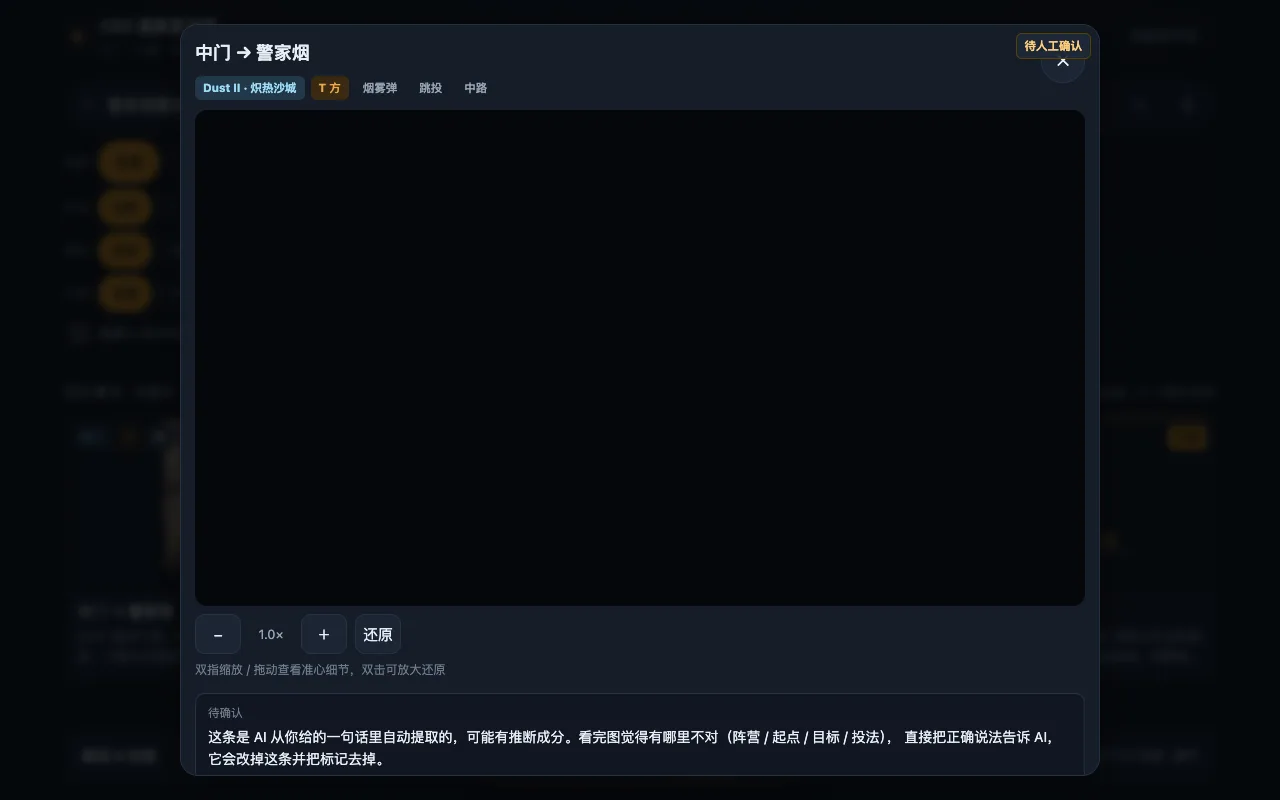
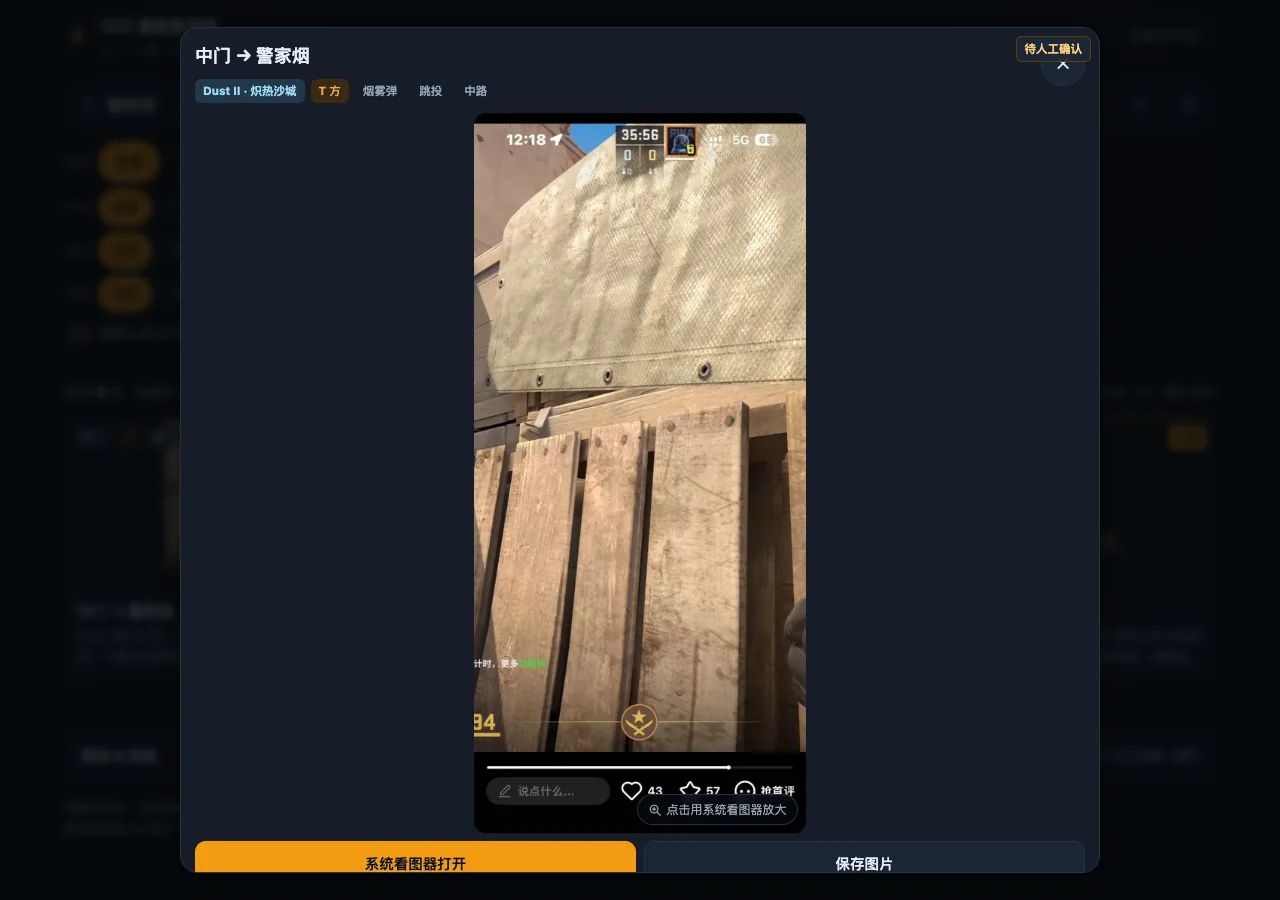
feat(detail): 点大图改用系统看图器，去掉自定义手势缩放
- 详情图不再做自定义双指/滚轮缩放（难用），点图或按钮直接在新标签打开原图，
  交给手机/电脑自带看图器（双指缩放、长按保存都是系统那套）
- 新增「系统看图器打开」「保存图片」两个大按钮；图右下角加操作提示
- 弹窗内图片本身给到更大（桌面 80vh / 手机 66vh），黑底贴合图片不留大片空白
- 允许系统长按菜单（-webkit-touch-callout: default）
- SW：导航到图片路径时不拦截，避免被回退成缓存的 index.html（看到首页而不是图）

diff --git a/src/components/LineupDetail.tsx b/src/components/LineupDetail.tsx
@@ -1,4 +1,4 @@
-import { useCallback, useEffect, useRef, useState } from 'react'
+import { useEffect } from 'react'
 import { assetUrl } from '../lib/assets'
 import type { Lineup } from '../data/types'
 import { GRENADE_SHORT, lineupTitle, ZONE_LABEL } from '../data/types'
@@ -10,126 +10,46 @@ interface Props {
 }
 
 /**
- * 准心大图：支持手机双指缩放 / 拖动 / 双击放大，桌面端支持滚轮与按钮缩放。
- * 缩放只作用在图片上，关闭按钮固定在右上角，永远好点。
+ * 准心图：不做自定义手势缩放（难用）。
+ * 点图片或按钮 → 用系统自带看图器打开原图，双指缩放、长按保存都交给系统/浏览器。
+ * 弹窗里这张图本身也尽量给大，多数情况不用放大就看得清。
  */
-function ZoomImage({ src, alt }: { src: string; alt: string }) {
-  const [scale, setScale] = useState(1)
-  const [offset, setOffset] = useState({ x: 0, y: 0 })
-  const boxRef = useRef<HTMLDivElement>(null)
-  const state = useRef({
-    pointers: new Map<number, { x: number; y: number }>(),
-    startDist: 0,
-    startScale: 1,
-    lastTap: 0,
-    startOffset: { x: 0, y: 0 },
-    startCenter: { x: 0, y: 0 },
-  })
-
-  const reset = useCallback(() => {
-    setScale(1)
-    setOffset({ x: 0, y: 0 })
-  }, [])
-
-  useEffect(() => {
-    reset()
-  }, [src, reset])
-
-  const clampScale = (s: number) => Math.min(6, Math.max(1, s))
-
-  const onPointerDown = (e: React.PointerEvent) => {
-    ;(e.target as HTMLElement).setPointerCapture?.(e.pointerId)
-    const st = state.current
-    st.pointers.set(e.pointerId, { x: e.clientX, y: e.clientY })
-
-    if (st.pointers.size === 1) {
-      const now = Date.now()
-      if (now - st.lastTap < 300) {
-        setScale((prev) => (prev > 1 ? 1 : 2.5))
-        setOffset({ x: 0, y: 0 })
-        st.lastTap = 0
-      } else {
-        st.lastTap = now
-      }
-      st.startOffset = offset
-      st.startCenter = { x: e.clientX, y: e.clientY }
-    } else if (st.pointers.size === 2) {
-      const pts = [...st.pointers.values()]
-      st.startDist = Math.hypot(pts[0].x - pts[1].x, pts[0].y - pts[1].y)
-      st.startScale = scale
-    }
-  }
-
-  const onPointerMove = (e: React.PointerEvent) => {
-    const st = state.current
-    if (!st.pointers.has(e.pointerId)) return
-    st.pointers.set(e.pointerId, { x: e.clientX, y: e.clientY })
-
-    if (st.pointers.size >= 2) {
-      const pts = [...st.pointers.values()]
-      const dist = Math.hypot(pts[0].x - pts[1].x, pts[0].y - pts[1].y)
-      if (st.startDist > 0) {
-        setScale(clampScale((st.startScale * dist) / st.startDist))
-      }
-      return
-    }
-
-    if (scale > 1) {
-      setOffset({
-        x: st.startOffset.x + (e.clientX - st.startCenter.x),
-        y: st.startOffset.y + (e.clientY - st.startCenter.y),
-      })
-    }
-  }
-
-  const onPointerUp = (e: React.PointerEvent) => {
-    const st = state.current
-    st.pointers.delete(e.pointerId)
-    if (st.pointers.size < 2) st.startDist = 0
-    if (st.pointers.size === 1) {
-      const rest = [...st.pointers.values()][0]
-      st.startOffset = offset
-      st.startCenter = { x: rest.x, y: rest.y }
-    }
-  }
-
-  const onWheel = (e: React.WheelEvent) => {
-    e.preventDefault()
-    setScale((s) => clampScale(s - e.deltaY * 0.0025))
-  }
-
+function LineupImage({ src, alt, filename }: { src: string; alt: string; filename: string }) {
   return (
     <div className="zoomarea">
-      <div
-        ref={boxRef}
-        className={`zoomimg${scale > 1 ? ' zoomed' : ''}`}
-        onPointerDown={onPointerDown}
-        onPointerMove={onPointerMove}
-        onPointerUp={onPointerUp}
-        onPointerCancel={onPointerUp}
-        onWheel={onWheel}
-        onDoubleClick={() => (scale > 1 ? reset() : setScale(2.5))}
+      <a
+        className="zoomimg"
+        href={src}
+        target="_blank"
+        rel="noopener noreferrer"
+        aria-label="用系统查看器打开原图"
       >
-        <img
-          src={src}
-          alt={alt}
-          draggable={false}
-          style={{ transform: `translate3d(${offset.x}px, ${offset.y}px, 0) scale(${scale})` }}
-        />
-      </div>
+        <img src={src} alt={alt} />
+        <span className="zoomhint" aria-hidden="true">
+          <svg viewBox="0 0 24 24" width="14" height="14" aria-hidden="true">
+            <circle cx="10.5" cy="10.5" r="6.5" fill="none" stroke="currentColor" strokeWidth="2" />
+            <path d="M15.5 15.5 L21 21" stroke="currentColor" strokeWidth="2" strokeLinecap="round" />
+            <path
+              d="M10.5 7.5v6M7.5 10.5h6"
+              stroke="currentColor"
+              strokeWidth="2"
+              strokeLinecap="round"
+            />
+          </svg>
+          点击用系统看图器放大
+        </span>
+      </a>
       <div className="zoombar">
-        <button onClick={() => setScale((s) => clampScale(s - 0.5))} aria-label="缩小">
-          −
-        </button>
-        <span className="zoomval">{scale.toFixed(1)}×</span>
-        <button onClick={() => setScale((s) => clampScale(s + 0.5))} aria-label="放大">
-          ＋
-        </button>
-        <button onClick={reset} aria-label="还原">
-          还原
-        </button>
+        <a className="zoombtn" href={src} target="_blank" rel="noopener noreferrer">
+          系统看图器打开
+        </a>
+        <a className="zoombtn ghost" href={src} download={filename}>
+          保存图片
+        </a>
       </div>
-      <div className="zoomtip">双指缩放 / 拖动查看准心细节，双击可放大还原</div>
+      <div className="zoomtip">
+        点图片或上面的按钮，用手机 / 电脑自带的看图器放大；长按图片可直接保存到相册。
+      </div>
     </div>
   )
 }
@@ -150,13 +70,17 @@ export default function LineupDetail({ lineup, onClose }: Props) {
 
   if (!lineup) return null
 
+  const title = lineupTitle(lineup)
+  const src = assetUrl(lineup.image)
+  const filename = `${title.replace(/[\\/:*?"<>|]/g, '')}.webp`
+
   return (
-    <div className="modal" role="dialog" aria-modal="true" aria-label={lineupTitle(lineup)}>
+    <div className="modal" role="dialog" aria-modal="true" aria-label={title}>
       <div className="modalbackdrop" onClick={onClose} />
       <div className="modalpanel">
         <div className="modalhead">
           <div className="modaltitle">
-            <h2>{lineupTitle(lineup)}</h2>
+            <h2>{title}</h2>
             <div className="metarow">
               <span className="badge map">{mapFullName(lineup.map)}</span>
               <span className={`badge side-${lineup.side.toLowerCase()}`}>{lineup.side} 方</span>
@@ -172,7 +96,7 @@ export default function LineupDetail({ lineup, onClose }: Props) {
           </button>
         </div>
 
-        <ZoomImage src={assetUrl(lineup.image)} alt={`${lineupTitle(lineup)} 准心瞄点图`} />
+        <LineupImage src={src} alt={`${title} 准心瞄点图`} filename={filename} />
 
         <dl className="detail">
           {lineup.needsReview && (

diff --git a/src/styles.css b/src/styles.css
@@ -748,30 +748,45 @@ a {
   background: #05070a;
   border-radius: 12px;
   overflow: hidden;
-  height: min(62vh, 620px);
   display: flex;
   align-items: center;
   justify-content: center;
-  touch-action: pan-y;
-  user-select: none;
-}
-
-.zoomimg.zoomed {
-  touch-action: none;
-  cursor: grab;
+  /* 黑底只包住图片本身，竖屏图两侧不留大片空白 */
+  width: fit-content;
+  max-width: 100%;
+  margin: 0 auto;
+  cursor: zoom-in;
+  /* 允许系统长按菜单（存储到照片 / 拷贝） */
+  -webkit-touch-callout: default;
+  user-select: auto;
 }
 
 .zoomimg img {
-  /* 用 flex + max-* 才能真正按容器高度收缩；竖屏长图也能一次看全 */
+  /* 不做自定义缩放，直接把图给到最大：竖屏长图也能看清准心 */
   max-width: 100%;
-  max-height: 100%;
+  max-height: min(80vh, 900px);
   width: auto;
   height: auto;
   object-fit: contain;
   display: block;
-  transform-origin: center center;
-  will-change: transform;
   image-rendering: auto;
+}
+
+.zoomhint {
+  position: absolute;
+  right: 8px;
+  bottom: 8px;
+  display: inline-flex;
+  align-items: center;
+  gap: 5px;
+  padding: 5px 10px;
+  border-radius: 999px;
+  background: rgba(6, 9, 14, 0.78);
+  border: 1px solid var(--line);
+  color: var(--text-dim);
+  font-size: 12px;
+  backdrop-filter: blur(4px);
+  pointer-events: none;
 }
 
 .zoombar {
@@ -781,20 +796,31 @@ a {
   margin-top: 8px;
 }
 
-.zoombar button {
-  background: var(--panel-2);
-  border: 1px solid var(--line);
-  border-radius: 10px;
-  min-width: 46px;
-  height: 40px;
-  font-size: 15px;
+.zoombtn {
+  flex: 1;
+  display: inline-flex;
+  align-items: center;
+  justify-content: center;
+  height: 44px;
+  padding: 0 14px;
+  border-radius: 11px;
+  background: var(--accent);
+  color: #07101a;
+  font-size: 14.5px;
+  font-weight: 600;
+  text-decoration: none;
+  border: 1px solid var(--accent);
 }
 
-.zoomval {
-  font-size: 13px;
-  color: var(--text-dim);
-  min-width: 44px;
-  text-align: center;
+.zoombtn.ghost {
+  background: var(--panel-2);
+  color: var(--text);
+  border-color: var(--line);
+  font-weight: 500;
+}
+
+.zoombtn:active {
+  transform: translateY(1px);
 }
 
 .zoomtip {
@@ -892,8 +918,8 @@ a {
     grid-template-columns: minmax(0, 1fr);
   }
 
-  .zoomimg {
-    height: min(56vh, 480px);
+  .zoomimg img {
+    max-height: min(66vh, 640px);
   }
 
   .modalpanel {
@@ -907,8 +933,8 @@ a {
 }
 
 @media (orientation: landscape) and (max-height: 520px) {
-  .zoomimg {
-    height: 52vh;
+  .zoomimg img {
+    max-height: 78vh;
   }
 
   .modalpanel {

diff --git a/public/sw.js b/public/sw.js
@@ -13,7 +13,7 @@
  *  用户点击更新 → skipWaiting → 页面 reload，保证不会长期跑旧版本。
  */
 
-const VERSION = '1790244263316-a277e09'
+const VERSION = '1790246543278-88a8647'
 const CACHE_STATIC = 'd2-static-' + VERSION
 /** 图片缓存用固定名字：图片文件名是稳定的，升级版本时不需要重新下载一遍 */
 const CACHE_IMG = 'd2-img-v1'
@@ -107,12 +107,16 @@ self.addEventListener('fetch', (event) => {
   const url = new URL(req.url)
   if (url.origin !== self.location.origin) return
 
+  const path = url.pathname
+
   if (req.mode === 'navigate') {
+    // 直接打开图片本身（点大图调系统看图器）时不要拦截，
+    // 否则 navigate 会回退到缓存的 index.html，用户看到的是首页而不是图。
+    if (/\/images\//.test(path) || /\.(webp|png|jpe?g|gif|avif)$/i.test(path)) return
     event.respondWith(networkFirst(req))
     return
   }
 
-  const path = url.pathname
   if (/\/images\//.test(path)) {
     event.respondWith(staleWhileRevalidate(req, CACHE_IMG))
     return

diff --git a/scripts/sw.template.js b/scripts/sw.template.js
@@ -107,12 +107,16 @@ self.addEventListener('fetch', (event) => {
   const url = new URL(req.url)
   if (url.origin !== self.location.origin) return
 
+  const path = url.pathname
+
   if (req.mode === 'navigate') {
+    // 直接打开图片本身（点大图调系统看图器）时不要拦截，
+    // 否则 navigate 会回退到缓存的 index.html，用户看到的是首页而不是图。
+    if (/\/images\//.test(path) || /\.(webp|png|jpe?g|gif|avif)$/i.test(path)) return
     event.respondWith(networkFirst(req))
     return
   }
 
-  const path = url.pathname
   if (/\/images\//.test(path)) {
     event.respondWith(staleWhileRevalidate(req, CACHE_IMG))
     return

diff --git a/README.md b/README.md
@@ -38,7 +38,7 @@ GitHub Pages 备用链接（需在仓库里把 Pages 的 Source 设为 GitHub Ac
 2. 顶部「地图」选**沙二 / 小镇 / 迷城**（或「全部」跨图搜），下面再按阵营 / 道具 / 区域筛。
 3. 搜索框直接输入：`警家烟`、`A大`、`Xbox`、`香蕉道火`、`拱门烟`、`B1`、
    `我在A大怎么封警家`、`CT在B门怎么防B洞Rush`、`迷城 拱门烟`。
-4. 点结果卡片看大图，手机可双指缩放查看准心细节。
+4. 点结果卡片看大图；点图片或「系统看图器打开」会调用手机 / 电脑自带的看图器放大，长按图片可保存到相册。
 5. 手机想当 App 用：iPhone 用 Safari → 分享 → 添加到主屏幕；安卓用 Chrome → 菜单 → 添加到主屏幕 / 安装应用。
 6. 断网也能查：先点底部「离线保存全部点位」，之后即使断网，搜索和已缓存的准心图都还能用。
 
